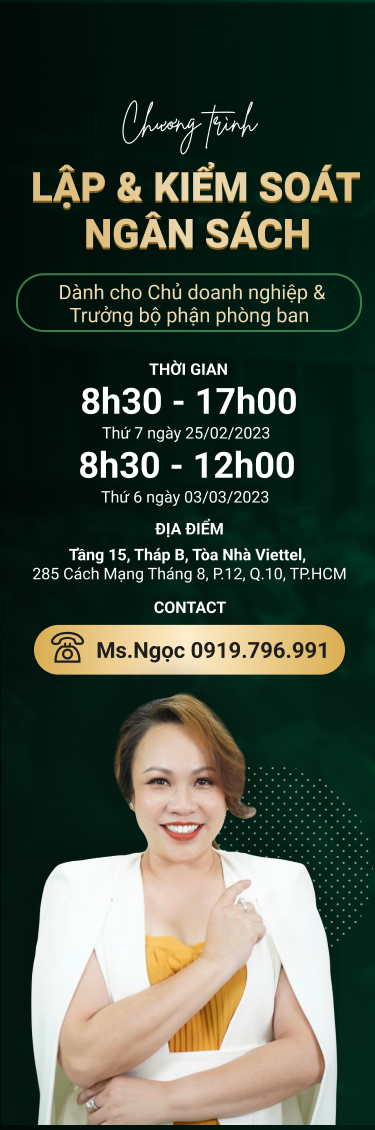
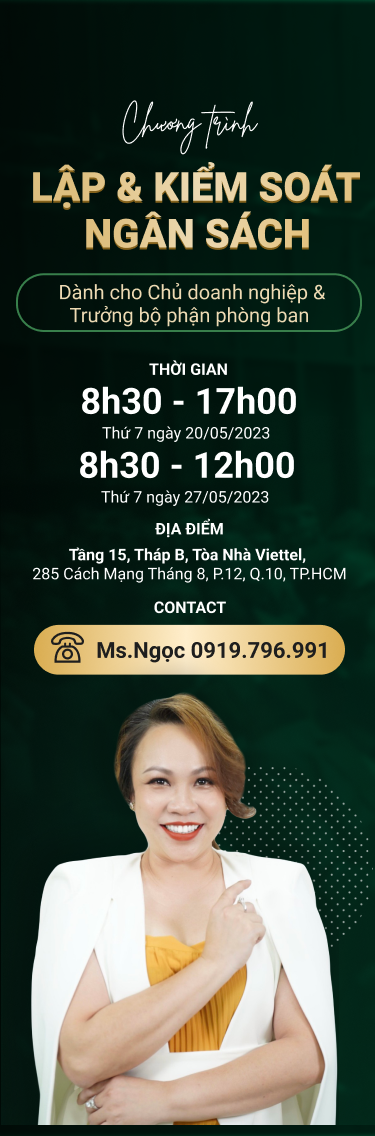
Update code

diff --git a/src/components/common/PopupRegister.js b/src/components/common/PopupRegister.js
@@ -25,7 +25,7 @@ const PopupRegister = () => {
     message: "",
     sourceId: f_source,
     rid: f_rid,
-    title: "CRM_FORM_NS_25/02/2023",
+    title: "CRM_FORM_NS_20/05/2023",
   });
   const handleChange = (e) => {
     setData({
@@ -56,7 +56,7 @@ const PopupRegister = () => {
           id: result.result,
           rows: [
             {
-              PRODUCT_ID: 16488,
+              PRODUCT_ID: 16544,
               PRICE: 0,
               QUANTITY: 1,
               TAX_INCLUDED: "Y",

diff --git a/src/components/common/Countdown.js b/src/components/common/Countdown.js
@@ -8,7 +8,7 @@ const Countdown = () => {
     });
   };
   const timediff = Math.floor(
-    new Date("February 25,2023 00:00:00").getTime() - new Date().getTime()
+    new Date("May 20,2023 00:00:00").getTime() - new Date().getTime()
   );
   const [deadline, setDeadline] = useState({
     days: "00",
